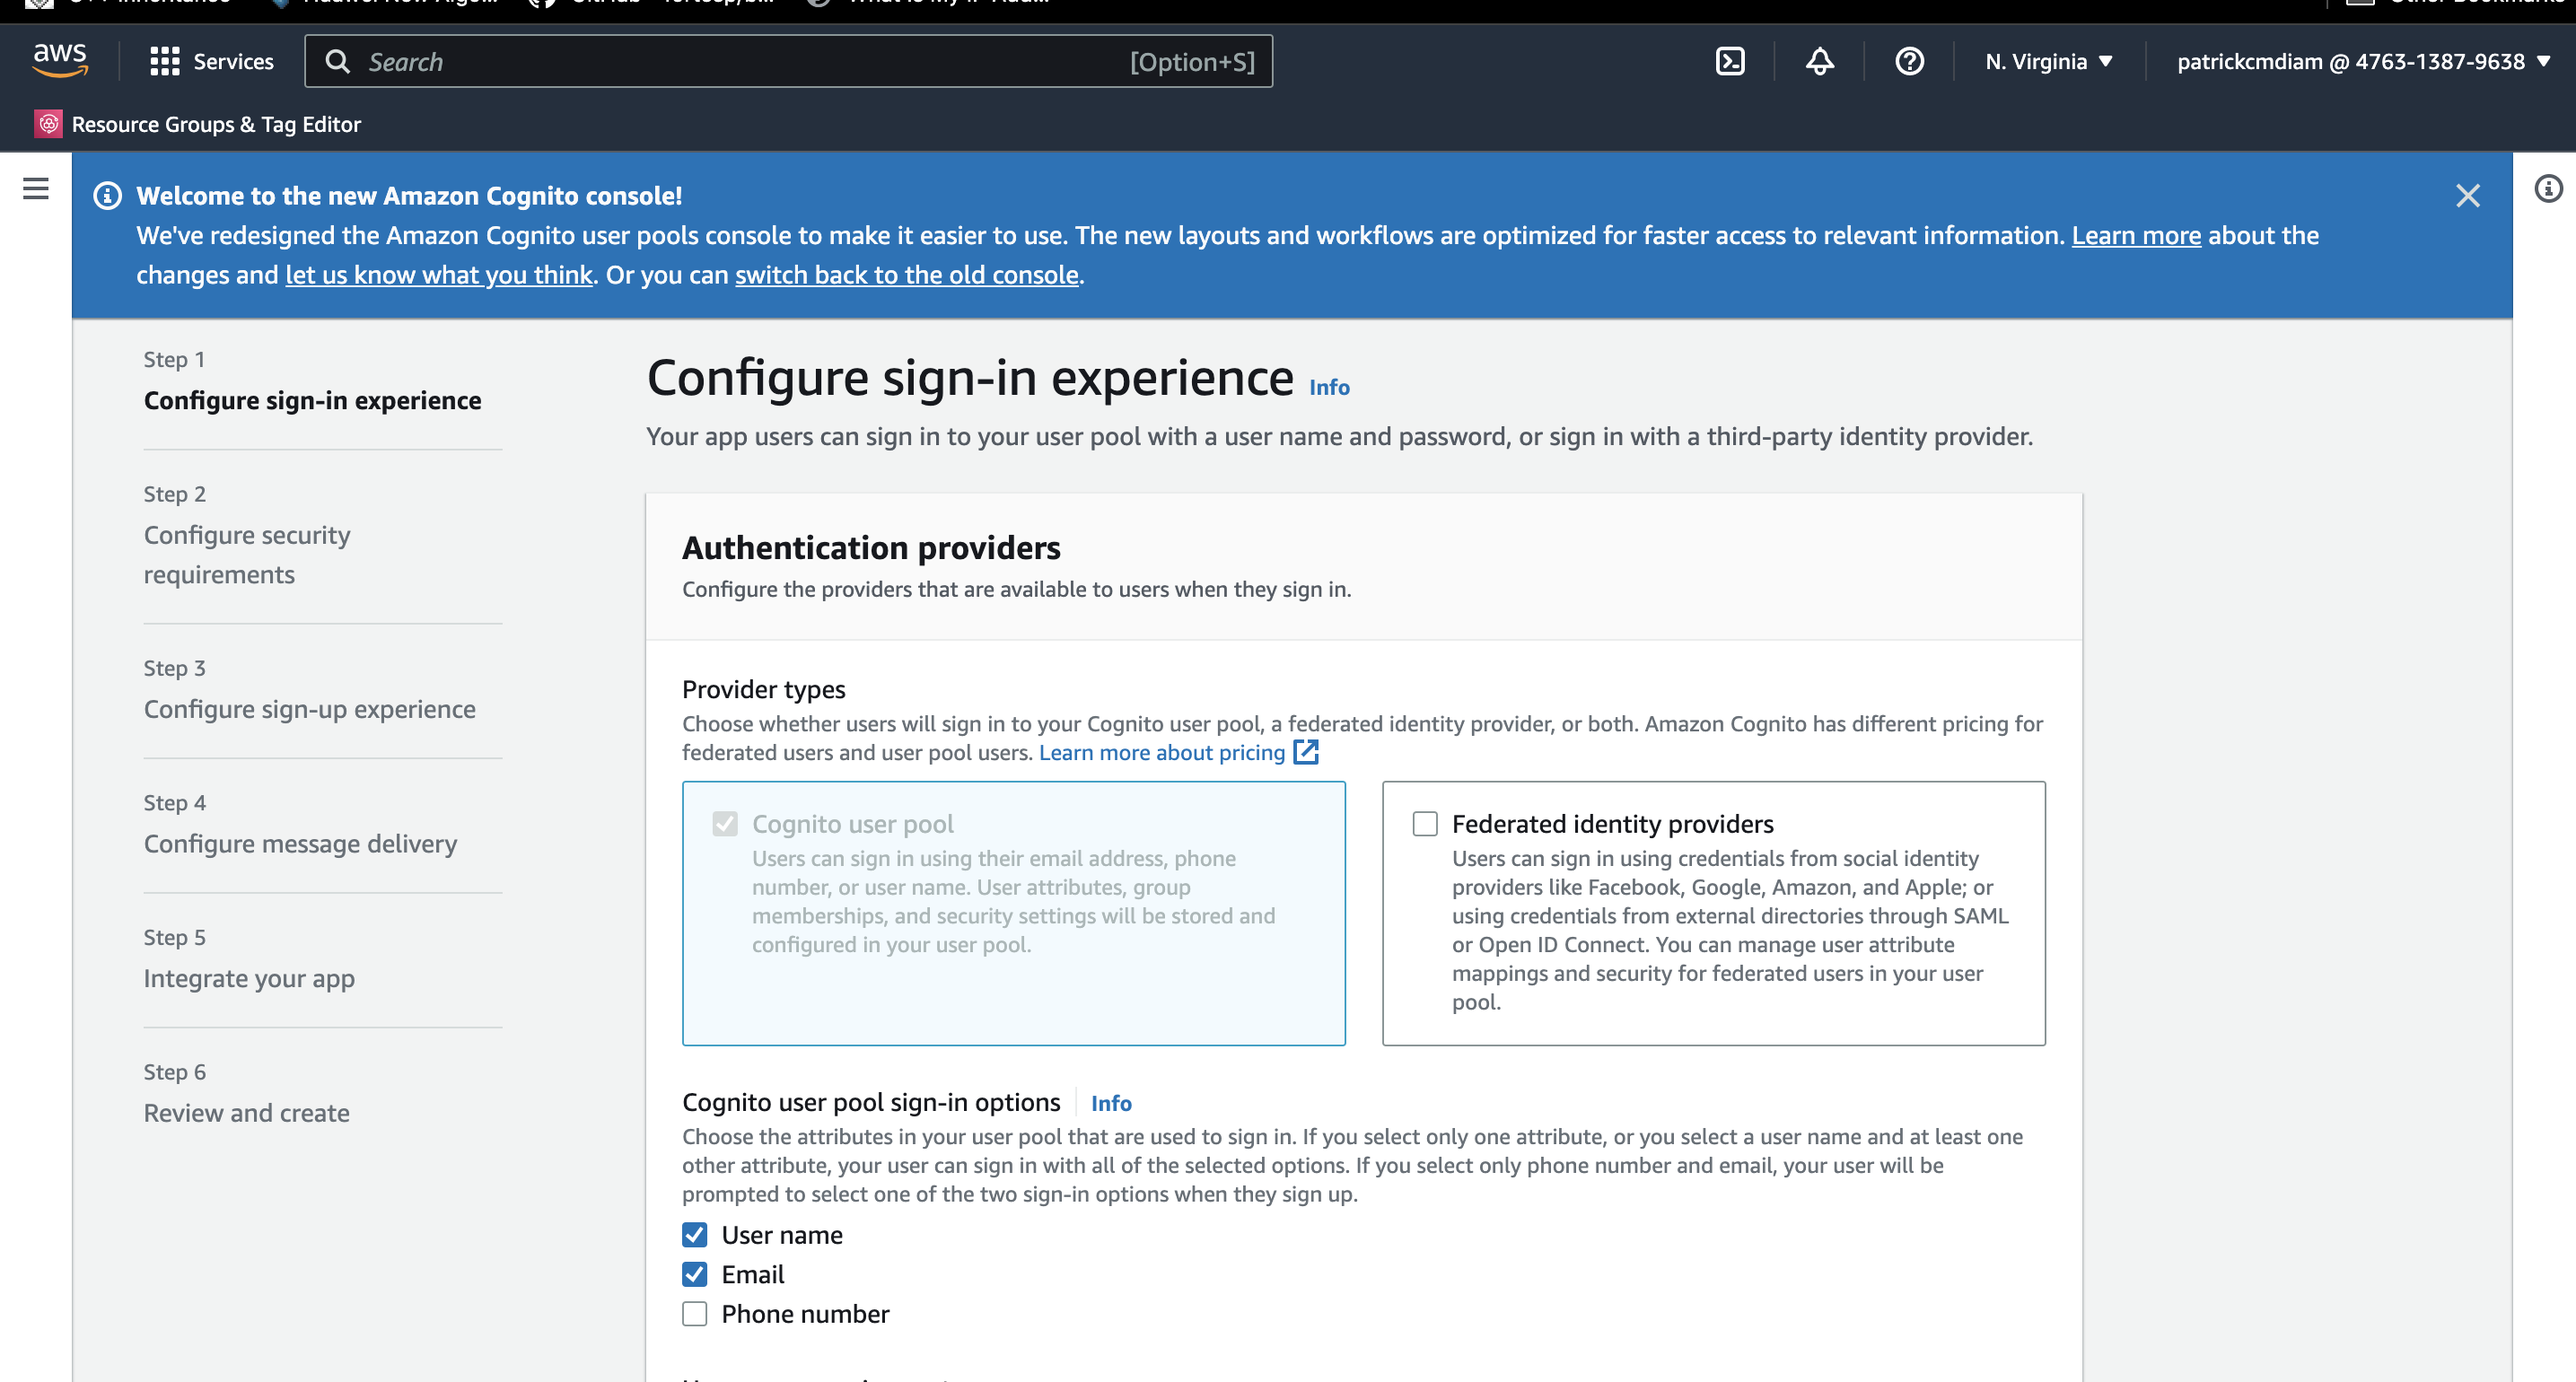
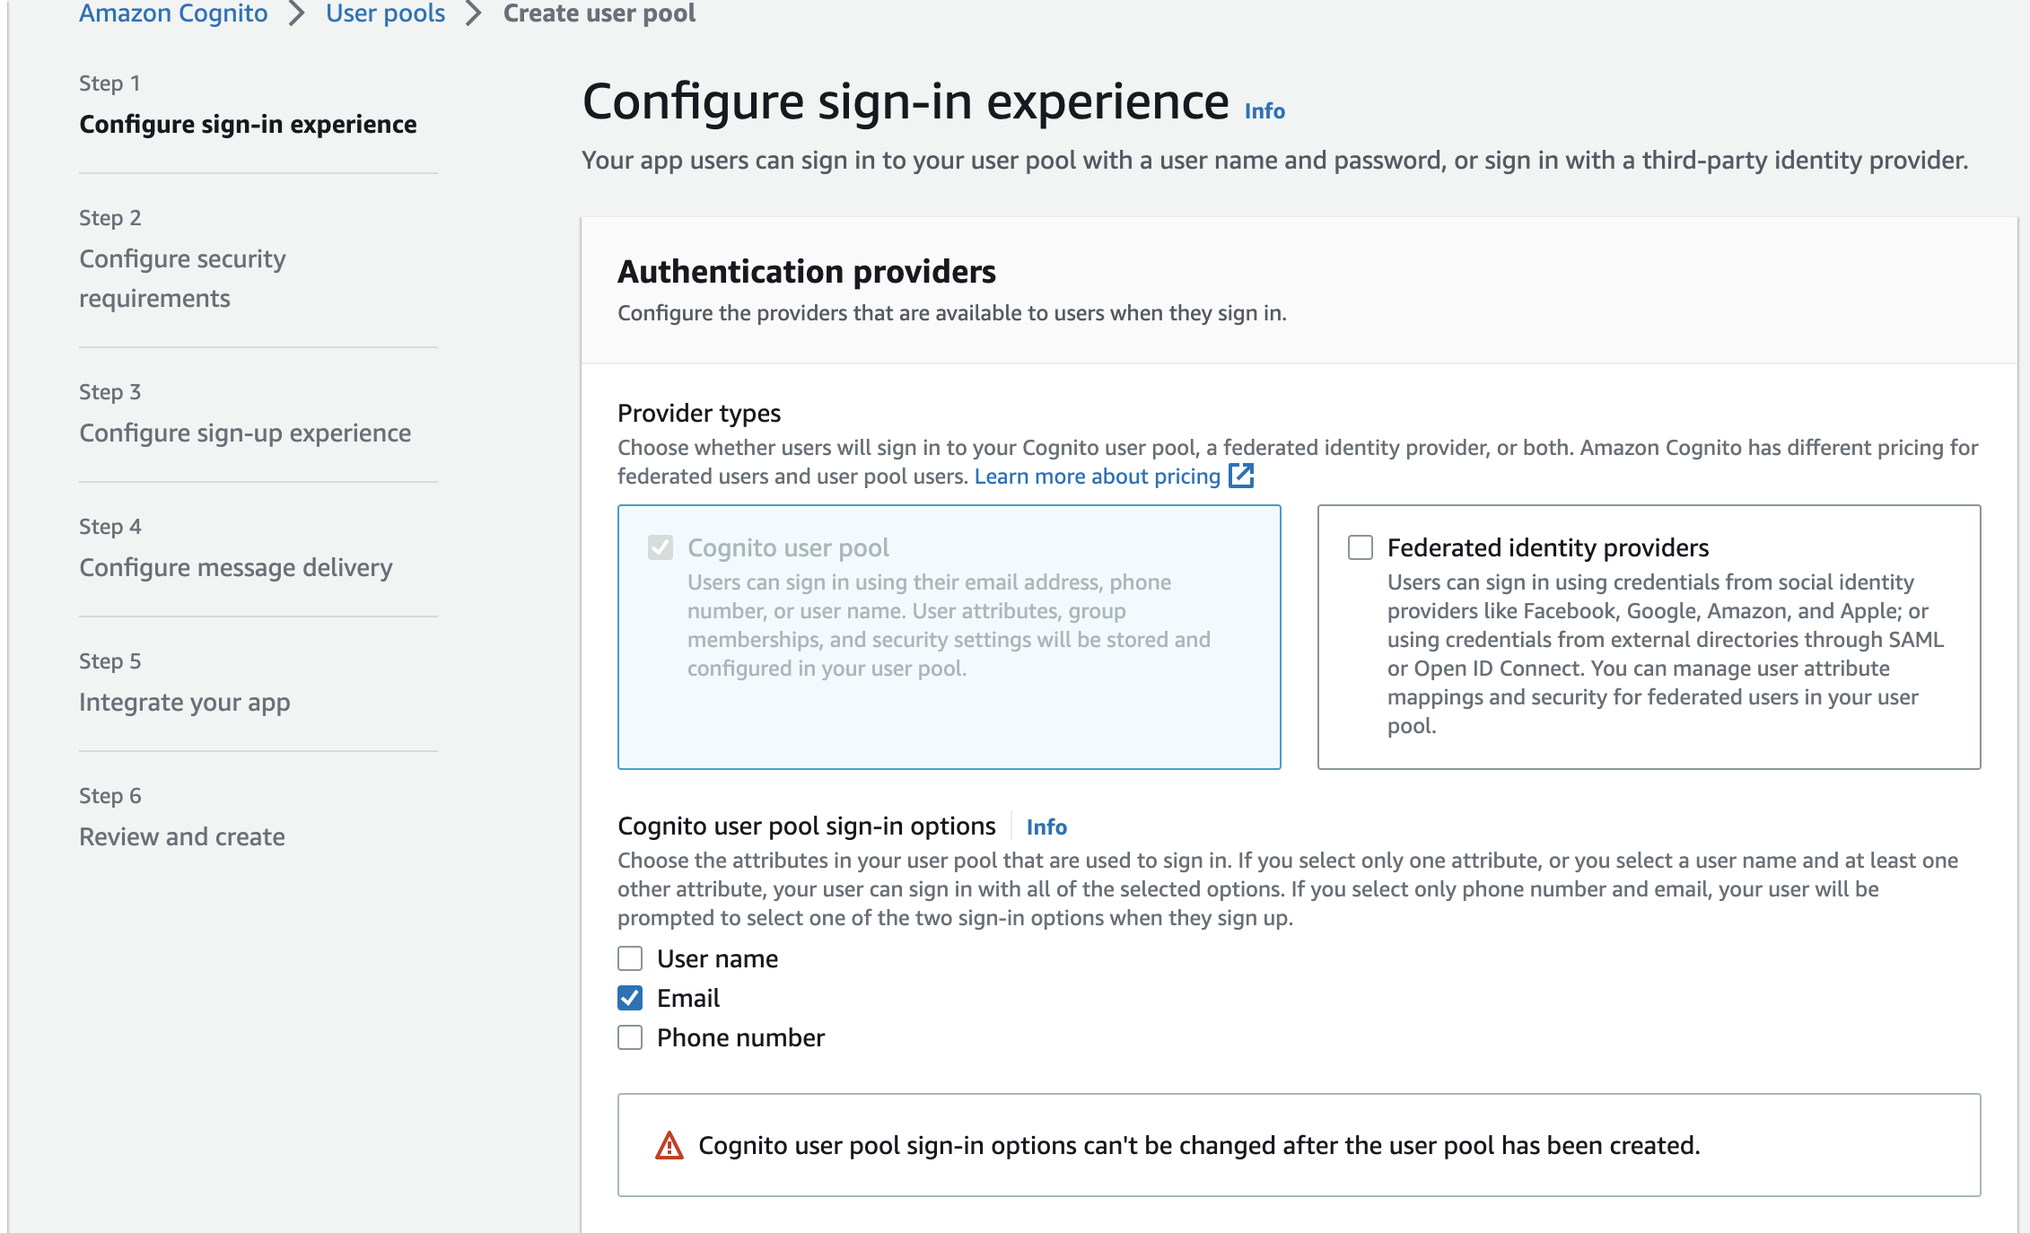
Update week-3 journal

diff --git a/journal/week3.md b/journal/week3.md
@@ -1,6 +1,20 @@
 # Week 3 — Decentralized Authentication
 
+Followed instructors's journal [here](https://github.com/omenking/aws-bootcamp-cruddur-2023/blob/week-3/journal/week3.md) and course playlist to be able to finish decentralized authentication.
+
 ## Setting up AWS Cognito and AWS User Pool via Web Console
+
+### Install AWS Amplify
+
+```sh
+cd frontend-react-js
+npm i aws-amplify --save
+cd ../
+```
+
+### Provision Cognito User Group
+
+Using the AWS Console to create a Cognito User Group
 
 ![AWS Cognito](assets/week-3/aws_cognito_1.png)
 
@@ -37,6 +51,8 @@
 ![AWS Cognito](assets/week-3/aws_cognito_17.png)
 
 
+## Configure Amplify
+
 Export these environment variables and also export them to the gitpod environment.
 
 ```sh
@@ -46,7 +62,7 @@ gp env AWS_USER_POOL_ID=${AWS_USER_POOL_ID}
 gp env AWS_APP_CLIENT_ID=${AWS_APP_CLIENT_ID}
 ```
 
-Add the environment variables to the `frontend-react-js` service in the `docker-compose` file.
+Add the environment variables to the `frontend-react-js` service in the [docker-compose](../docker-compose.yml) file.
 
 ```sh
 REACT_APP_AWS_PROJECT_REGION: ${AWS_DEFAULT_REGION}
@@ -56,7 +72,71 @@ REACT_APP_CLIENT_ID: ${AWS_APP_CLIENT_ID}
 REACT_APP_AWS_USER_POOLS_WEB_CLIENT_ID: ${AWS_APP_CLIENT_ID}
 ```
 
-Force password change AWS Cognito via aws cli
+Configure cognito amplify in [app.js](../frontend-react-js/src/App.js)
+
+```js
+import { Amplify } from 'aws-amplify';
+
+Amplify.configure({
+  "AWS_PROJECT_REGION": process.env.REACT_APP_AWS_PROJECT_REGION,
+  "aws_cognito_region": process.env.REACT_APP_AWS_COGNITO_REGION,
+  "aws_user_pools_id": process.env.REACT_APP_AWS_USER_POOLS_ID,
+  "aws_user_pools_web_client_id": process.env.REACT_APP_CLIENT_ID,
+  "oauth": {},
+  Auth: {
+    // We are not using an Identity Pool
+    // identityPoolId: process.env.REACT_APP_IDENTITY_POOL_ID, // REQUIRED - Amazon Cognito Identity Pool ID
+    region: process.env.REACT_APP_AWS_PROJECT_REGION,           // REQUIRED - Amazon Cognito Region
+    userPoolId: process.env.REACT_APP_AWS_USER_POOLS_ID,         // OPTIONAL - Amazon Cognito User Pool ID
+    userPoolWebClientId: process.env.REACT_APP_AWS_USER_POOLS_WEB_CLIENT_ID,   // OPTIONAL - Amazon Cognito Web Client ID (26-char alphanumeric string)
+  }
+});
+```
+
+### Conditionally show components based on logged in or logged out
+
+Update the [HomeFeedPage.js](../frontend-react-js/src/pages/HomeFeedPage.js) to show certain content when user is logged.
+
+```js
+import { Amplify } from 'aws-amplify';
+
+// check if we are authenicated
+  const checkAuth = async () => {
+    Auth.currentAuthenticatedUser({
+      // Optional, By default is false. 
+      // If set to true, this call will send a 
+      // request to Cognito to get the latest user data
+      bypassCache: false
+    })
+      .then((user) => {
+        console.log('user', user);
+        return Auth.currentAuthenticatedUser()
+      }).then((cognito_user) => {
+        setUser({
+          display_name: cognito_user.attributes.name,
+          handle: cognito_user.attributes.preferred_username
+        })
+      })
+      .catch((err) => console.log(err));
+  };
+```
+
+Updated `SignOut` in [ProfileInfo.js](../frontend-react-js/src/components/ProfileInfo.js) component to Cognito Amplify.
+
+```js
+import { Amplify } from 'aws-amplify';
+
+const signOut = async () => {
+    try {
+        await Auth.signOut({ global: true });
+        window.location.href = "/"
+    } catch (error) {
+        console.log('error signing out: ', error);
+    }
+  }
+```
+
+Force `password change` in AWS Cognito user pool via aws cli to be to test out the sign in process
 
 - Stackoverflow reference [here](https://stackoverflow.com/questions/40287012/how-to-change-user-status-force-change-password)
 
@@ -67,3 +147,157 @@ aws cognito-idp admin-set-user-password \
   --password <password> \
   --permanent
 ```
+
+![User email confirmed](assets/week-3/aws_cognito_18.png)
+
+![User email confirmed](assets/week-3/aws_cognito_19.png)
+
+Also Edit user's `name` and `preferred_username` to be able to display them on frontend
+
+![Edit user in cognito](assets/week-3/aws_cognito_20.png)
+
+Updated the [SigninPage](../frontend-react-js/src/pages/SigninPage.js) to use cognito amplify
+
+```js
+import { Auth } from 'aws-amplify';
+
+const onsubmit = async (event) => {
+    setErrors('')
+    event.preventDefault();
+    Auth.signIn(email, password)
+      .then(user => {
+        console.log(`User: ${user}`);
+        localStorage.setItem("access_token", user.signInUserSession.accessToken.jwtToken)
+        window.location.href = "/"
+      })
+      .catch(error => {
+        if (error.code == 'UserNotConfirmedException') {
+          window.location.href = "/confirm"
+        }
+        setErrors(error.message)
+      });
+    return false
+  }
+```
+
+![Signin user](assets/week-3/aws_cognito_29.png)
+
+![HomeFeedPage](assets/week-3/aws_cognito_30.png)
+
+After completing the signin test, I disable and delete the user from the user pool so as to have the entire process be done from the client(`frontend-application`).
+
+Updated the [SignupPage](../frontend-react-js/src/pages/SignupPage.js) to use `Cognito Amplify` when signing up a user.
+
+```js
+import { Auth } from 'aws-amplify';
+
+const onsubmit = async (event) => {
+    event.preventDefault();
+    setErrors('')
+    try {
+      const { user } = await Auth.signUp({
+        username: email,
+        password: password,
+        attributes: {
+          name: name,
+          email: email,
+          preferred_username: username,
+        },
+        autoSignIn: { // optional - enables auto sign in after user is confirmed
+          enabled: true,
+        }
+      });
+      console.log(user);
+      window.location.href = `/confirm?email=${email}`
+    } catch (error) {
+      console.log(error);
+      setErrors(error.message)
+    }
+    return false
+  }
+```
+
+![Signup user](assets/week-3/aws_cognito_21.png)
+
+![Signup user](assets/week-3/aws_cognito_22.png)
+
+![Signup user](assets/week-3/aws_cognito_23.png)
+
+Update the [Confirmation Page](../frontend-react-js/src/pages/ConfirmationPage.js) to use `cognito amplify` to confirm and verify user with the send verification code via email after sign up.
+
+```js
+const resend_code = async (event) => {
+    setErrors('')
+    try {
+      await Auth.resendSignUp(email);
+      console.log('code resent successfully');
+      setCodeSent(true)
+    } catch (err) {
+      // does not return a code
+      // does cognito always return english
+      // for this to be an okay match?
+      console.log(err)
+      if (err.message == 'Username cannot be empty') {
+        setErrors("You need to provide an email in order to send Resend Activiation Code")
+      } else if (err.message == "Username/client id combination not found.") {
+        setErrors("Email is invalid or cannot be found.")
+      }
+    }
+  }
+
+  const onsubmit = async (event) => {
+    event.preventDefault();
+    setErrors('')
+    try {
+      await Auth.confirmSignUp(email, code);
+      window.location.href = "/"
+    } catch (error) {
+      setErrors(error.message)
+    }
+    return false
+  }
+```
+
+![Confirm or verify user](assets/week-3/aws_cognito_24.png)
+
+![Confirm or verify user](assets/week-3/aws_cognito_25.png)
+
+
+Updated the [Recover page](../frontend-react-js/src/pages/RecoverPage.js) for a user to be able to reset forgotten password.
+
+```js
+const onsubmit_send_code = async (event) => {
+  event.preventDefault();
+  setErrors('')
+  Auth.forgotPassword(username)
+    .then((data) => setFormState('confirm_code'))
+    .catch((err) => setErrors(err.message));
+  return false
+}
+
+const onsubmit_confirm_code = async (event) => {
+  event.preventDefault();
+  setErrors('')
+  if (password == passwordAgain) {
+    Auth.forgotPasswordSubmit(username, code, password)
+      .then((data) => setFormState('success'))
+      .catch((err) => setErrors(err.message));
+  } else {
+    setErrors('Passwords do not match')
+  }
+  return false
+}
+```
+
+![Reset Password](assets/week-3/aws_cognito_26.png)
+
+![Reset Password](assets/week-3/aws_cognito_27.png)
+
+![Reset Password](assets/week-3/aws_cognito_28.png)
+
+
+Then test the complete sign in process to see that everything works as expected.
+
+![Signin user](assets/week-3/aws_cognito_29.png)
+
+![Signin user](assets/week-3/aws_cognito_30.png)
